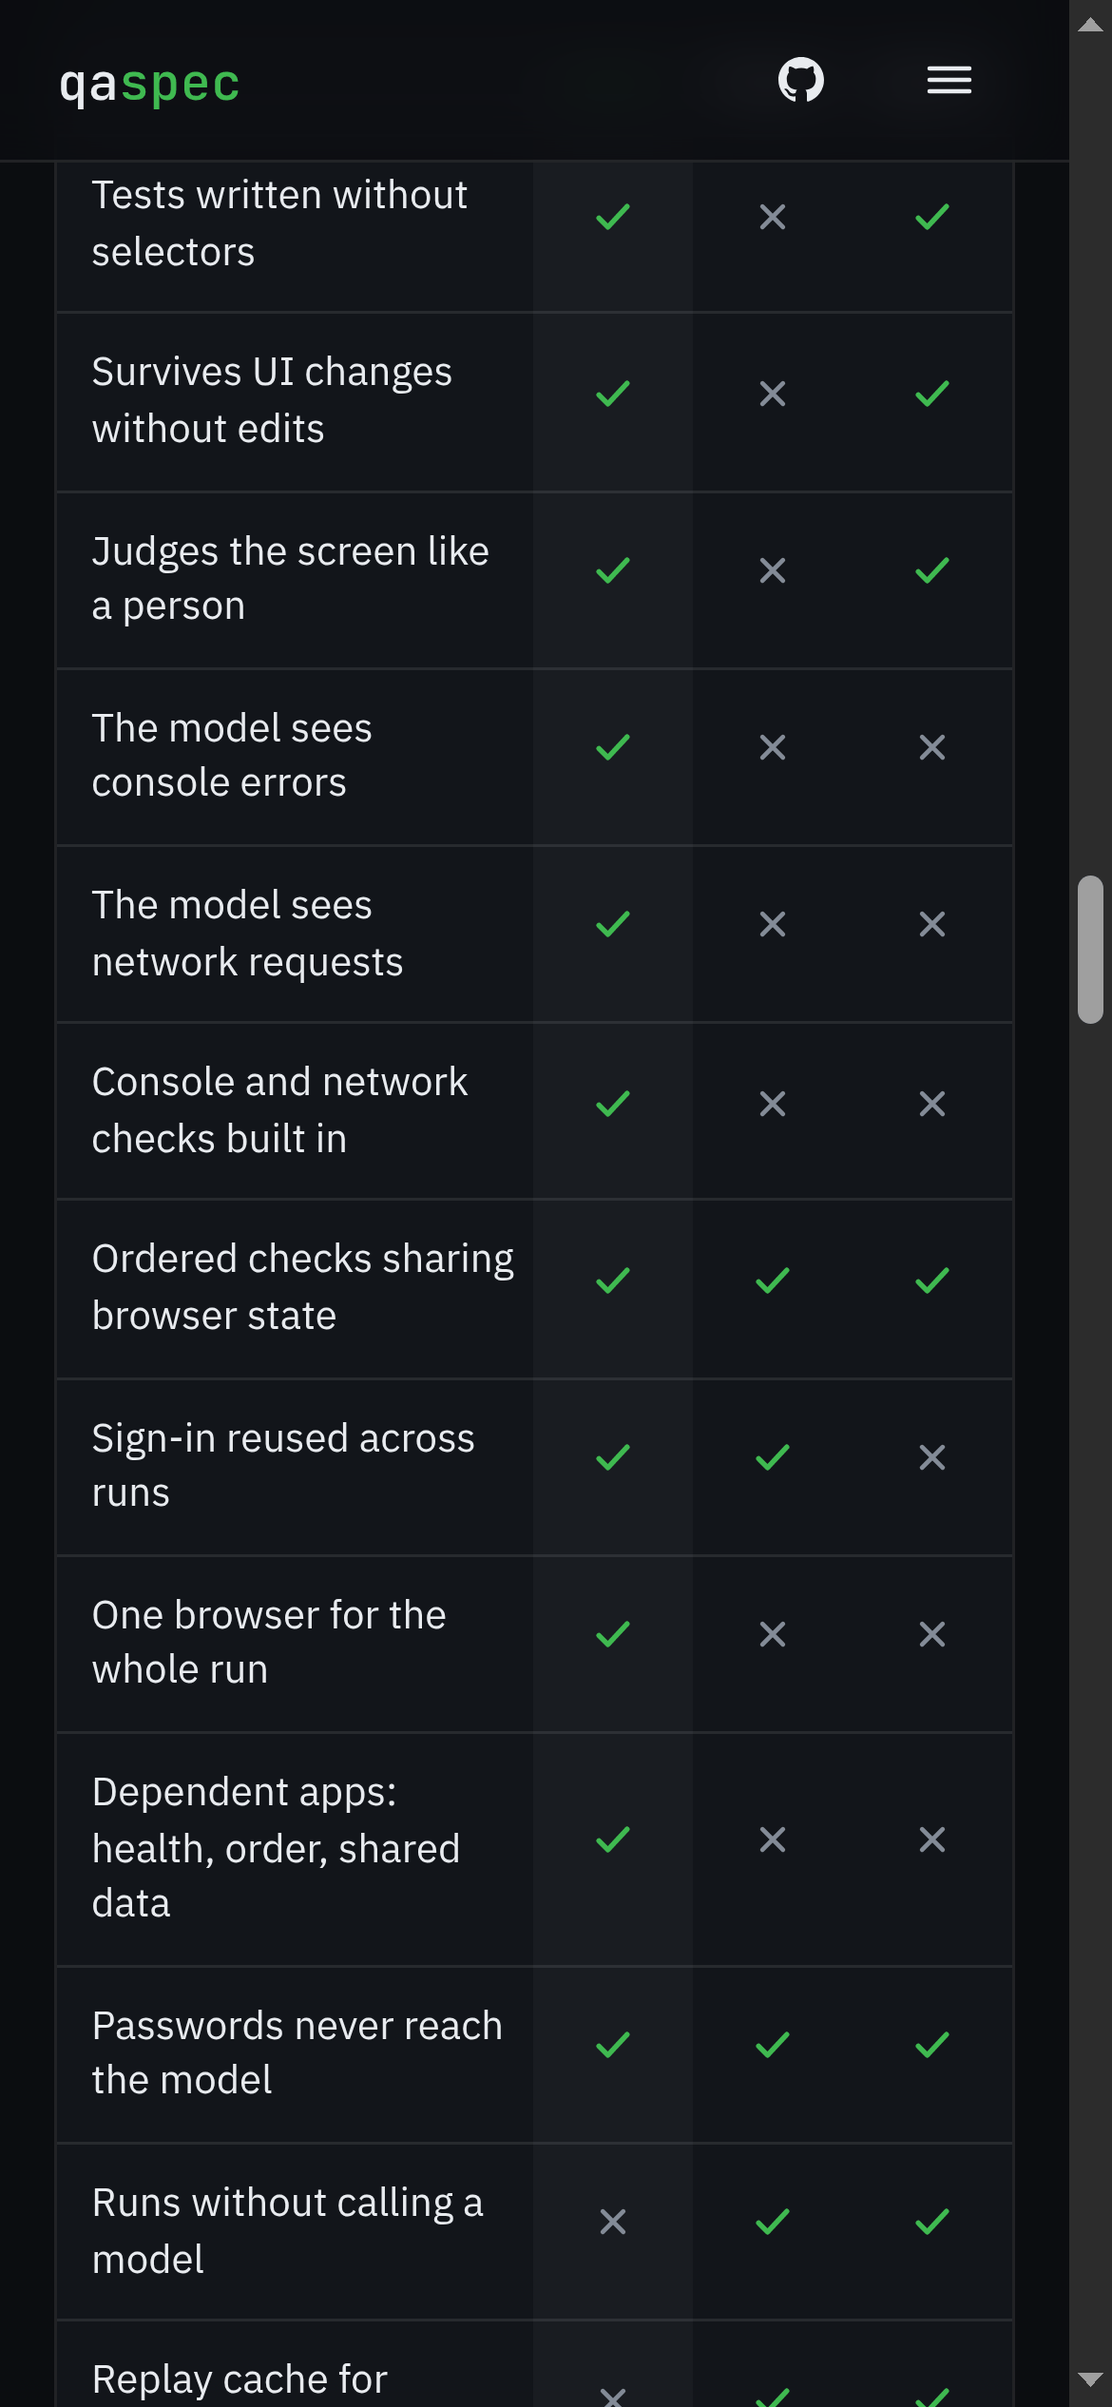
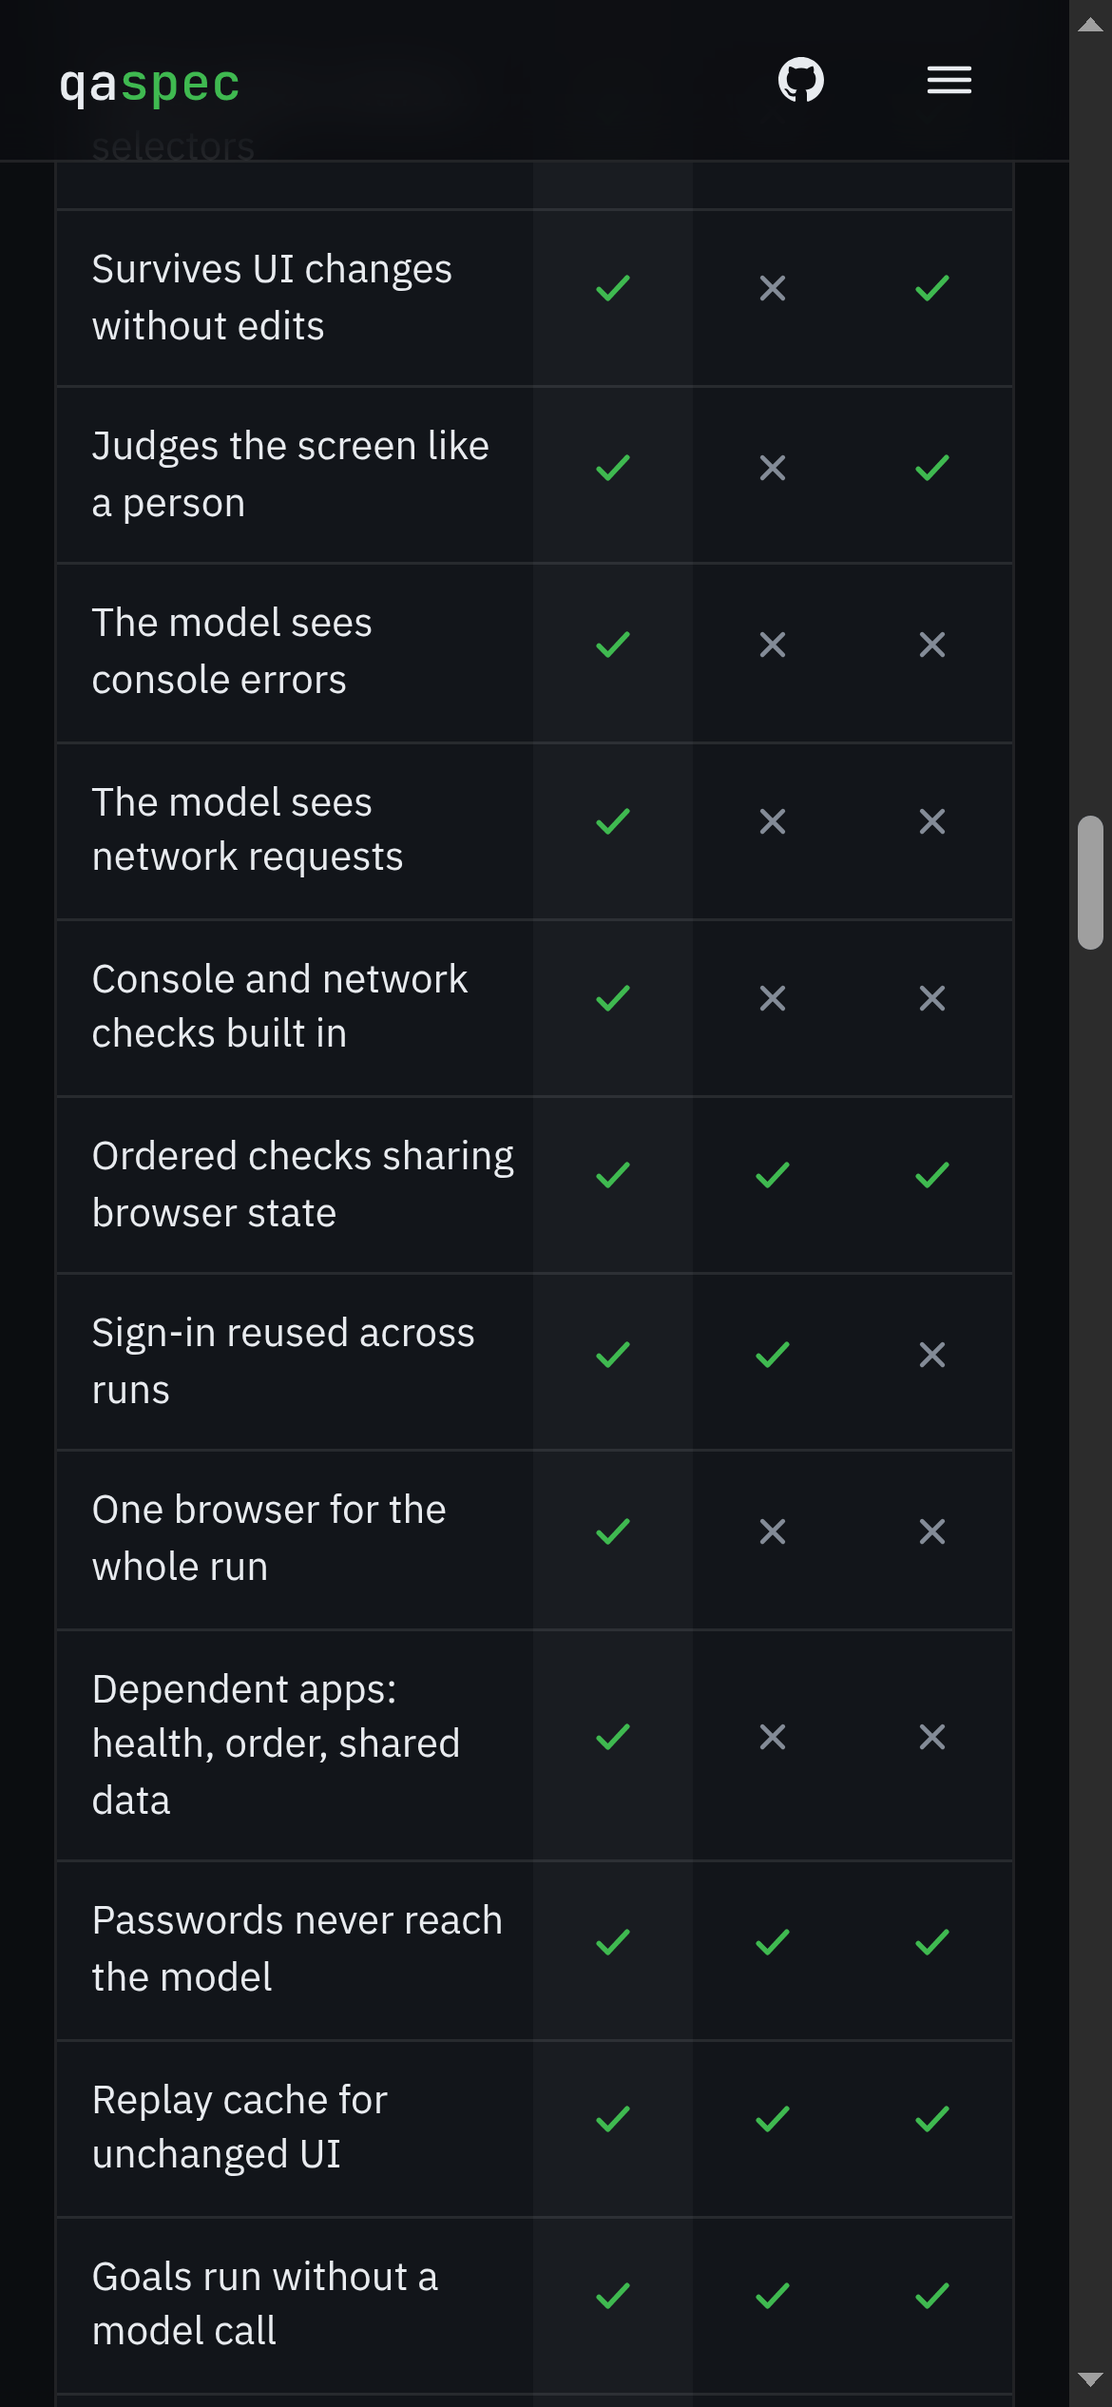
Site and README: comparison data in one module, new features reflected
- site/src/data/compare.js feeds the site, the screenshot views and the README table
- rows updated for replay cache, --jobs and mobile web; TesterArmy supports phone viewports
  (README had it as no)
- 'New since 0.1.0' section; regenerated comparison screenshots

diff --git a/site/src/App.svelte b/site/src/App.svelte
@@ -4,6 +4,7 @@
   import Code from './lib/Code.svelte';
   import Compare from './lib/Compare.svelte';
   import Checks from './lib/Checks.svelte';
+  import { checkCols, checkRows, columns, writing, seeing, running } from './data/compare.js';
   import Figure from './lib/Figure.svelte';
   import run from './data/run.txt?raw';
   import report from './data/report.json';
@@ -17,55 +18,6 @@
   const install = 'cargo install --git https://github.com/jaivial/qaspec --tag v0.1.0';
 
   const nav = [['#how', 'How it works'], ['#checks', 'Compare'], ['#config', 'Config'], ['#reference', 'Reference']];
-
-  // Yes/no comparison of the three approaches. Every row is checked against the e2e 0.16 docs;
-  // rows where qaspec loses stay in.
-  const checkCols = ['qaspec', ['Regular E2E', 'Regular'], ['Agentic E2E (TesterArmy)', 'Agentic']];
-  const checkRows = [
-    ['Tests written without selectors', true, false, [true, 'Mixed with locators']],
-    ['Survives UI changes without edits', true, false, true],
-    ['Judges the screen like a person', true, false, true],
-    ['The model sees console errors', true, false, false],
-    ['The model sees network requests', true, false, false],
-    ['Console and network checks built in', true, false, false],
-    ['Ordered checks sharing browser state', true, true, true],
-    ['Sign-in reused across runs', true, true, [false, 'Once per run']],
-    ['One browser for the whole run', true, false, false],
-    ['Dependent apps: health, order, shared data', true, false, false],
-    ['Passwords never reach the model', true, [true, 'No model'], true],
-    ['Runs without calling a model', [false, 'Exact checks only'], true, [true, 'From the cache']],
-    ['Replay cache for unchanged UI', false, [true, 'No model'], true],
-    ['Parallel workers', false, true, true],
-    ['Mobile apps (iOS, Android)', false, [true, 'Appium, Detox'], true],
-    ['Single binary, no Node runtime', true, false, false]
-  ];
-
-  // Columns: qaspec, scripted E2E (Playwright/Cypress), e2e by TesterArmy, agent-browser on its own.
-  const columns = ['qaspec', 'Scripted E2E', 'e2e (TesterArmy)', 'agent-browser alone'];
-
-  const writing = [
-    ['What you write', 'Goals and expectations', 'Locators, waits, helpers', ['Code plus agent steps', 'agent.act / agent.assert in TypeScript'], 'Prompts to a coding agent'],
-    ['Test file', ['Declarative .qa.ts', 'Parsed, never executed'], 'Executable TS/JS', 'Executable TypeScript', ['None', 'No test format']],
-    ['Survives UI changes', ['yes', 'The agent finds the control again'], ['no', 'Selectors break'], ['yes', 'Plus a replay cache'], ['partial', 'If you re-prompt']],
-    ['Many checks in order, shared state', ['yes', 'Steps in a suite'], ['yes', 'Inside one test'], ['partial', 'serial groups'], ['partial', 'Manual']],
-    ['Repeatable in CI', ['yes', 'Exit codes, JSON, JUnit'], 'yes', 'yes', ['no', 'Interactive tool']]
-  ];
-
-  const seeing = [
-    ['Judges the screen like a person', ['yes', "expect('…') with evidence"], 'no', ['yes', 'agent.assert'], ['partial', 'You read it']],
-    ['Console errors per step', ['yes', 'expect.console.noErrors()'], ['partial', 'Hand-written listeners'], ['no', 'Hidden from the model'], ['partial', 'console command']],
-    ['Network status per step', ['yes', "expect.network('POST /x').status(201)"], ['partial', 'waitForResponse'], ['no', 'Hidden from the model'], ['partial', 'network requests']],
-    ['App state (JS, localStorage)', ['yes', 'expect.state, expect.storage'], ['yes', 'page.evaluate'], ['partial', 'Not to the model'], ['partial', 'eval']],
-    ['Secrets kept from the model', ['yes', 'Typed via stdin, redacted'], ['partial', 'No model involved'], 'yes', ['no', 'Whatever you paste']]
-  ];
-
-  const running = [
-    ['Browsers per run', ['1 Chromium', 'One tab per project'], ['1 context per test', 'Workers in parallel'], ['1 context per test', 'Workers in parallel'], ['1 per session', 'You manage it']],
-    ['Sign in', ['Once per identity', 'Saved state reused across runs'], 'Setup project + storageState', ['Setup test, once per run', 'Sessions are never reused across runs'], 'state save / load by hand'],
-    ['Several apps that depend on each other', ['yes', 'depends_on, health, captures'], ['partial', 'Projects, by hand'], ['partial', 'Targets'], 'no'],
-    ['Runtime', 'One Rust binary + agent-browser', 'Node + browsers', 'Node 22.12+ + Playwright', 'agent-browser'],
-    ['Model calls per run', ['Every goal and judged check', 'No replay cache yet'], 'None', ['Fewer after the first run', 'Replay cache'], 'Every step']
-  ];
 
   // On narrow screens the comparison shows qaspec against one tool at a time.
   let versus = $state(1);
@@ -118,7 +70,7 @@
         <a class="btn primary" href="#install">Install qaspec</a>
         <a class="btn" href="{repo}/releases/latest">Download v{version}</a>
       </div>
-      <p class="facts">One Rust binary · one browser per run · MIT</p>
+      <p class="facts">One Rust binary · one browser per run by default · replays goals without the model · MIT</p>
     </div>
     <Code code={agentSpec} title="specs/todos.qa.ts" />
   </section>
@@ -156,7 +108,7 @@
 
   <section class="wrap" id="checks">
     <h2>qaspec, regular E2E and agentic E2E</h2>
-    <p class="sub">Regular E2E is a scripted Playwright or Cypress suite. Agentic E2E is <a href="https://github.com/tester-army/e2e">e2e by TesterArmy</a>, where an agent acts and asserts but never sees the console or network. The rows where qaspec loses are in the table too.</p>
+    <p class="sub">Regular E2E is a scripted Playwright or Cypress suite. Agentic E2E is <a href="https://github.com/tester-army/e2e">e2e by TesterArmy</a>, where an agent acts and asserts but never sees the console or network. The rows where qaspec loses are in the table too: judged checks always call a model, and native mobile apps are out of scope.</p>
     <Checks caption="qaspec, regular E2E and agentic E2E compared" columns={checkCols} rows={checkRows} />
     <p class="note">Notes under some marks explain them; on a phone they are in the detailed tables below. Based on the e2e 0.16 docs.</p>
   </section>
@@ -177,6 +129,16 @@
     <h3 class="tbl-h">Running them</h3>
     <Compare caption="Running them" {columns} rows={running} {versus} />
     <p class="note">Based on e2e 0.16 and agent-browser 0.27 docs, and on porting a real two-app suite. Scripted E2E means Playwright or Cypress. Corrections welcome as <a href="{repo}/issues">issues</a>.</p>
+  </section>
+
+  <section class="wrap" id="new">
+    <h2>New since 0.1.0</h2>
+    <p class="sub">On <code>main</code>, not in a release yet. Build from source to try it.</p>
+    <dl class="rows">
+      <div><dt>Replay cache</dt><dd>A goal that passed is recorded as role and name locators. The next run replays it without the model, and the agent takes over only where the page changed. In the demo, a second run went from 8 model calls to 4, and from 24 to 18 seconds. <code>--cache strict</code> fails on a missing or stale recording, for CI.</dd></div>
+      <div><dt>Parallel workers</dt><dd><code>--jobs N</code> splits suites across N browsers, keeping each sign-in, dependency and capture in one worker. A memory guard lowers N to what fits at about 1.5 GB per browser. One browser stays the default.</dd></div>
+      <div><dt>Mobile web</dt><dd><code>device: 'iPhone 14'</code> on a suite, project or the whole run emulates the phone's size, pixel ratio and user agent, and tells the agent to look for menus and scroll. Suites with a device run last, because agent-browser cannot undo the mobile user agent without relaunching.</dd></div>
+    </dl>
   </section>
 
   <section class="wrap" id="install">

diff --git a/site/src/data/compare.js b/site/src/data/compare.js
@@ -1,0 +1,51 @@
+// Single source for the comparison tables on the site and in the screenshot views.
+// Checked against e2e 0.16 and agent-browser 0.27 docs. Rows where qaspec loses stay in.
+
+export const checkCols = ['qaspec', ['Regular E2E', 'Regular'], ['Agentic E2E (TesterArmy)', 'Agentic']];
+export const checkRows = [
+  ['Tests written without selectors', true, false, [true, 'Mixed with locators']],
+  ['Survives UI changes without edits', true, false, true],
+  ['Judges the screen like a person', true, false, true],
+  ['The model sees console errors', true, false, false],
+  ['The model sees network requests', true, false, false],
+  ['Console and network checks built in', true, false, false],
+  ['Ordered checks sharing browser state', true, true, true],
+  ['Sign-in reused across runs', true, true, [false, 'Once per run']],
+  ['One browser for the whole run', [true, 'Default'], false, false],
+  ['Dependent apps: health, order, shared data', true, false, false],
+  ['Passwords never reach the model', true, [true, 'No model'], true],
+  ['Replay cache for unchanged UI', true, [true, 'No model'], true],
+  ['Goals run without a model call', [true, 'From the cache'], [true, 'No model'], [true, 'From the cache']],
+  ['Judged checks without a model call', false, [true, 'No model'], false],
+  ['Parallel workers', [true, 'Opt-in, --jobs'], true, true],
+  ['Mobile web (device emulation)', [true, 'device = …'], true, true],
+  ['Native mobile apps (iOS, Android)', false, [true, 'Appium, Detox'], true],
+  ['Single binary, no Node runtime', true, false, false]
+];
+
+export const columns = ['qaspec', 'Scripted E2E', 'e2e (TesterArmy)', 'agent-browser alone'];
+
+export const writing = [
+  ['What you write', 'Goals and expectations', 'Locators, waits, helpers', ['Code plus agent steps', 'agent.act / agent.assert in TypeScript'], 'Prompts to a coding agent'],
+  ['Test file', ['Declarative .qa.ts', 'Parsed, never executed'], 'Executable TS/JS', 'Executable TypeScript', ['None', 'No test format']],
+  ['Survives UI changes', ['yes', 'Replays, then the agent heals'], ['no', 'Selectors break'], ['yes', 'Plus a replay cache'], ['partial', 'If you re-prompt']],
+  ['Many checks in order, shared state', ['yes', 'Steps in a suite'], ['yes', 'Inside one test'], ['partial', 'serial groups'], ['partial', 'Manual']],
+  ['Repeatable in CI', ['yes', 'Exit codes, JSON, JUnit, --cache strict'], 'yes', 'yes', ['no', 'Interactive tool']]
+];
+
+export const seeing = [
+  ['Judges the screen like a person', ['yes', "expect('…') with evidence"], 'no', ['yes', 'agent.assert'], ['partial', 'You read it']],
+  ['Console errors per step', ['yes', 'expect.console.noErrors()'], ['partial', 'Hand-written listeners'], ['no', 'Hidden from the model'], ['partial', 'console command']],
+  ['Network status per step', ['yes', "expect.network('POST /x').status(201)"], ['partial', 'waitForResponse'], ['no', 'Hidden from the model'], ['partial', 'network requests']],
+  ['App state (JS, localStorage)', ['yes', 'expect.state, expect.storage'], ['yes', 'page.evaluate'], ['partial', 'Not to the model'], ['partial', 'eval']],
+  ['Phone-sized layouts', ['yes', "device: 'iPhone 14'"], ['yes', 'Device descriptors'], ['yes', 'Viewports, devices'], ['yes', 'set device']],
+  ['Secrets kept from the model', ['yes', 'Typed via stdin, redacted'], ['partial', 'No model involved'], 'yes', ['no', 'Whatever you paste']]
+];
+
+export const running = [
+  ['Browsers per run', ['1 Chromium by default', 'One tab per project; --jobs N opt-in'], ['1 context per test', 'Workers in parallel'], ['1 context per test', 'Workers in parallel'], ['1 per session', 'You manage it']],
+  ['Sign in', ['Once per identity', 'Saved state reused across runs'], 'Setup project + storageState', ['Setup test, once per run', 'Sessions are never reused across runs'], 'state save / load by hand'],
+  ['Several apps that depend on each other', ['yes', 'depends_on, health, captures'], ['partial', 'Projects, by hand'], ['partial', 'Targets'], 'no'],
+  ['Runtime', 'One Rust binary + agent-browser', 'Node + browsers', 'Node 22.12+ + Playwright', 'agent-browser'],
+  ['Model calls per run', ['First run: goals and judged checks', 'Then only judged checks'], 'None', ['Fewer after the first run', 'Replay cache'], 'Every step']
+];

diff --git a/site/src/Shot.svelte b/site/src/Shot.svelte
@@ -4,6 +4,7 @@
   import Code from './lib/Code.svelte';
   import Compare from './lib/Compare.svelte';
   import Checks from './lib/Checks.svelte';
+  import { checkCols, checkRows, columns, writing, seeing, running } from './data/compare.js';
   import run from './data/run.txt?raw';
   import check from './data/check.txt?raw';
   import report from './data/report.json';
@@ -11,35 +12,8 @@
 
   let { name } = $props();
 
-  const checkCols = ['qaspec', 'Regular E2E', 'Agentic E2E (TesterArmy)'];
-  const checkRows = [
-    ['Tests written without selectors', true, false, [true, 'Mixed with locators']],
-    ['Survives UI changes without edits', true, false, true],
-    ['Judges the screen like a person', true, false, true],
-    ['The model sees console errors', true, false, false],
-    ['The model sees network requests', true, false, false],
-    ['Console and network checks built in', true, false, false],
-    ['Ordered checks sharing browser state', true, true, true],
-    ['Sign-in reused across runs', true, true, [false, 'Once per run']],
-    ['One browser for the whole run', true, false, false],
-    ['Dependent apps: health, order, shared data', true, false, false],
-    ['Passwords never reach the model', true, [true, 'No model'], true],
-    ['Runs without calling a model', [false, 'Exact checks only'], true, [true, 'From the cache']],
-    ['Replay cache for unchanged UI', false, [true, 'No model'], true],
-    ['Parallel workers', false, true, true],
-    ['Mobile apps (iOS, Android)', false, [true, 'Appium, Detox'], true],
-    ['Single binary, no Node runtime', true, false, false]
-  ];
-  const columns = ['qaspec', 'Scripted E2E', 'e2e (TesterArmy)', 'agent-browser alone'];
-  const rows = [
-    ['What you write', 'Goals and expectations', 'Locators, waits, helpers', 'Code plus agent steps', 'Prompts to a coding agent'],
-    ['Judges the screen like a person', ['yes', "expect('…') with evidence"], 'no', ['yes', 'agent.assert'], ['partial', 'You read it']],
-    ['Console errors per step', ['yes', 'expect.console.noErrors()'], ['partial', 'Hand-written listeners'], ['no', 'Hidden from the model'], ['partial', 'console command']],
-    ['Network status per step', ['yes', "expect.network('POST /x').status(201)"], ['partial', 'waitForResponse'], ['no', 'Hidden from the model'], ['partial', 'network requests']],
-    ['Browsers per run', ['1 Chromium', 'One tab per project'], ['1 context per test', 'Workers in parallel'], ['1 context per test', 'Workers in parallel'], ['1 per session', 'You manage it']],
-    ['Sign in', ['Once per identity', 'Reused across runs'], 'Setup project + storageState', 'Setup test + saved session', 'state save / load by hand'],
-    ['Runtime', 'One Rust binary + agent-browser', 'Node + browsers', 'Node 22.12+ + Playwright', 'agent-browser']
-  ];
+  // Short screenshot version of the detailed table.
+  const rows = [writing[0], seeing[0], seeing[1], seeing[2], running[0], running[1], running[3]];
 </script>
 
 <div class="shot" id="shot">
@@ -50,7 +24,7 @@
   {:else if name === 'report'}
     <Report {report} />
   {:else if name === 'checks'}
-    <Checks caption="qaspec, regular E2E and agentic E2E" columns={checkCols} rows={checkRows} />
+    <Checks caption="qaspec, regular E2E and agentic E2E" columns={checkCols.map((c) => (Array.isArray(c) ? c[0] : c))} rows={checkRows} />
   {:else if name === 'compare'}
     <Compare caption="qaspec compared" {columns} {rows} />
   {:else if name === 'spec'}

diff --git a/README.md b/README.md
@@ -92,14 +92,15 @@ Regular E2E is a scripted Playwright or Cypress suite. Agentic E2E is [e2e by Te
 | Console and network checks built in | ✅ | ❌ | ❌ |
 | Ordered checks sharing browser state | ✅ | ✅ | ✅ |
 | Sign-in reused across runs | ✅ | ✅ | ❌ (once per run) |
-| One browser for the whole run | ✅ | ❌ | ❌ |
+| One browser for the whole run | ✅ (default) | ❌ | ❌ |
 | Dependent apps: health, order, shared data | ✅ | ❌ | ❌ |
 | Passwords never reach the model | ✅ | ✅ (no model) | ✅ |
-| Runs without calling a model | ✅ (exact checks + replay cache) | ✅ | ✅ (from the cache) |
 | Replay cache for unchanged UI | ✅ | ✅ (no model) | ✅ |
-| Parallel workers | ❌ | ✅ | ✅ |
-| Mobile web (device emulation) | ✅ | ✅ | ❌ |
-| Mobile apps (iOS, Android) | ❌ | ✅ (Appium, Detox) | ✅ |
+| Goals run without a model call | ✅ (from the cache) | ✅ (no model) | ✅ (from the cache) |
+| Judged checks without a model call | ❌ | ✅ (no model) | ❌ |
+| Parallel workers | ✅ (opt-in, --jobs) | ✅ | ✅ |
+| Mobile web (device emulation) | ✅ (device = …) | ✅ | ✅ |
+| Native mobile apps (iOS, Android) | ❌ | ✅ (appium, Detox) | ✅ |
 | Single binary, no Node runtime | ✅ | ❌ | ❌ |
 
 In detail, with agent-browser on its own as a fourth column:

diff --git a/CHANGELOG.md b/CHANGELOG.md
@@ -6,6 +6,17 @@ The format follows [Keep a Changelog](https://keepachangelog.com/en/1.1.0/) and 
 
 ## [Unreleased]
 
+Built with three subagents running MiniMax-M3.1-Flash-Preview, one per feature, each in its own git
+worktree. Every result was reviewed and re-run by the orchestrating session before merging; see the
+merge commits for the review rounds.
+
+### Website
+- The comparison tables live in one module (`site/src/data/compare.js`), shared by the site, the
+  screenshot views and the README table, so they can't drift apart. They now cover the replay cache,
+  parallel workers and mobile web. Judged checks still call a model, and native mobile apps are out of
+  scope; both rows stay in.
+- New "New since 0.1.0" section on the site.
+
 ### Added
 - **Replay cache for goals.** A goal that passed with all of its expectations passing is recorded as
   the sequence of browser actions the agent performed, in `.qaspec/cache/<env>/<sha>.json` (mode 600).
